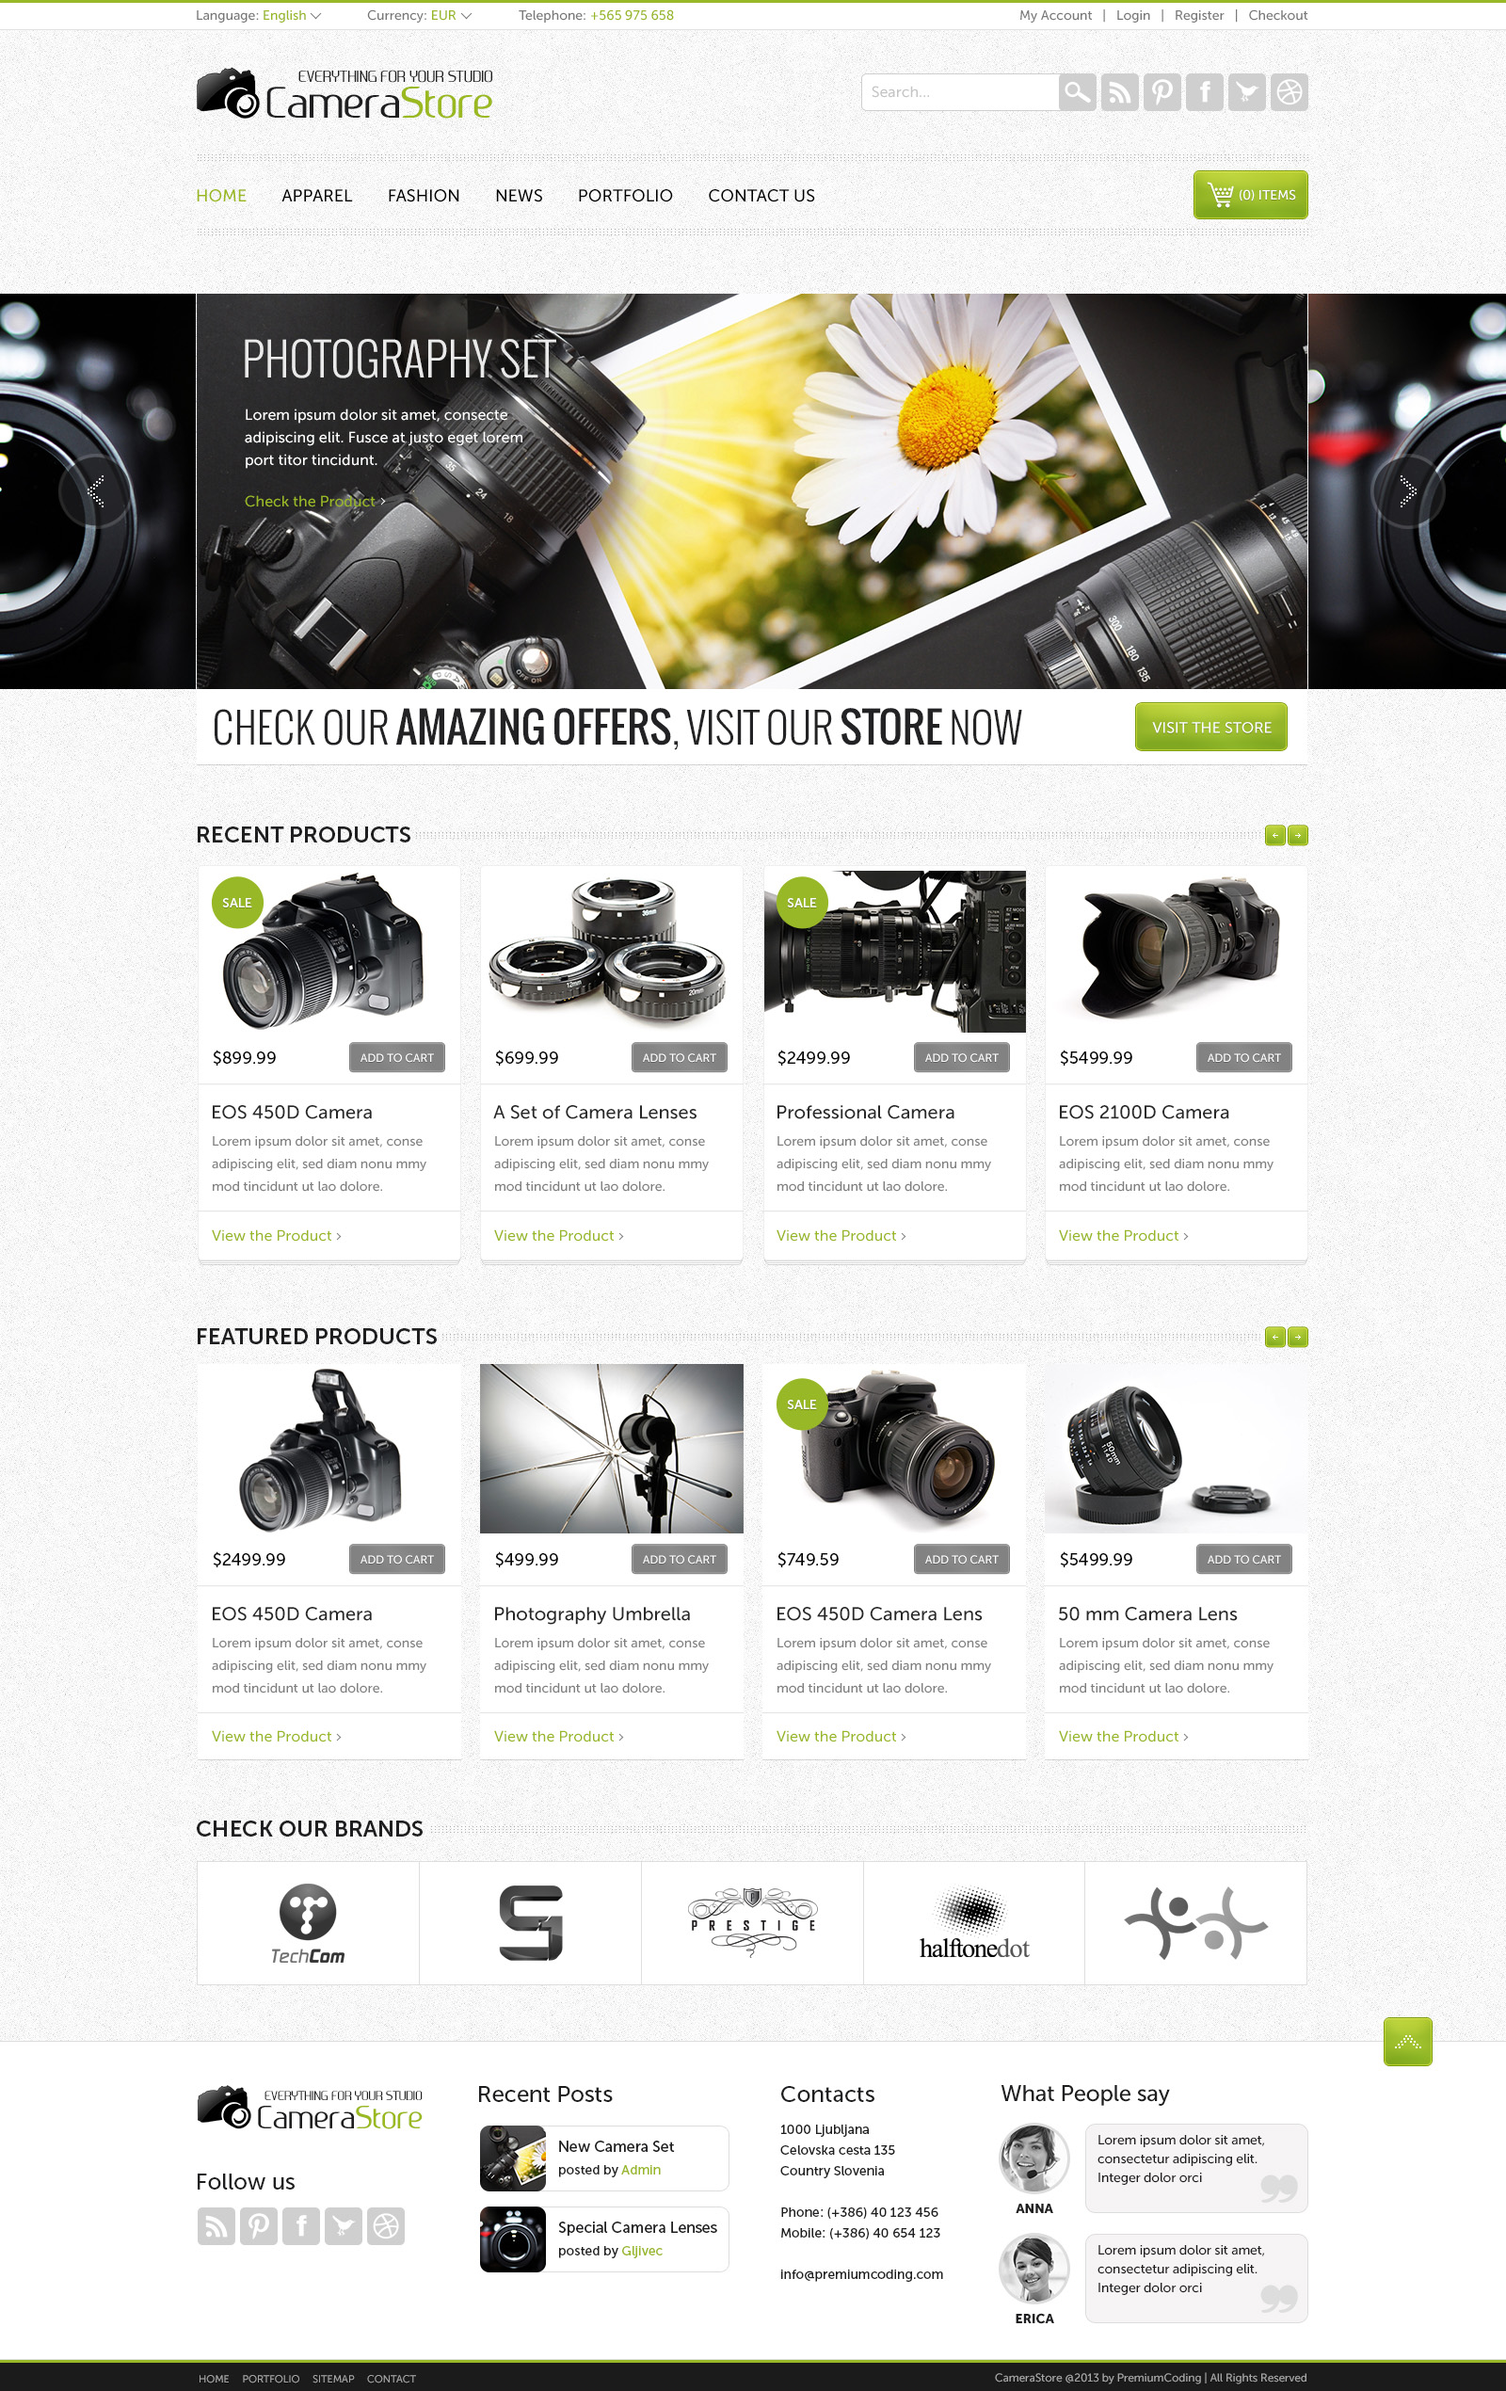
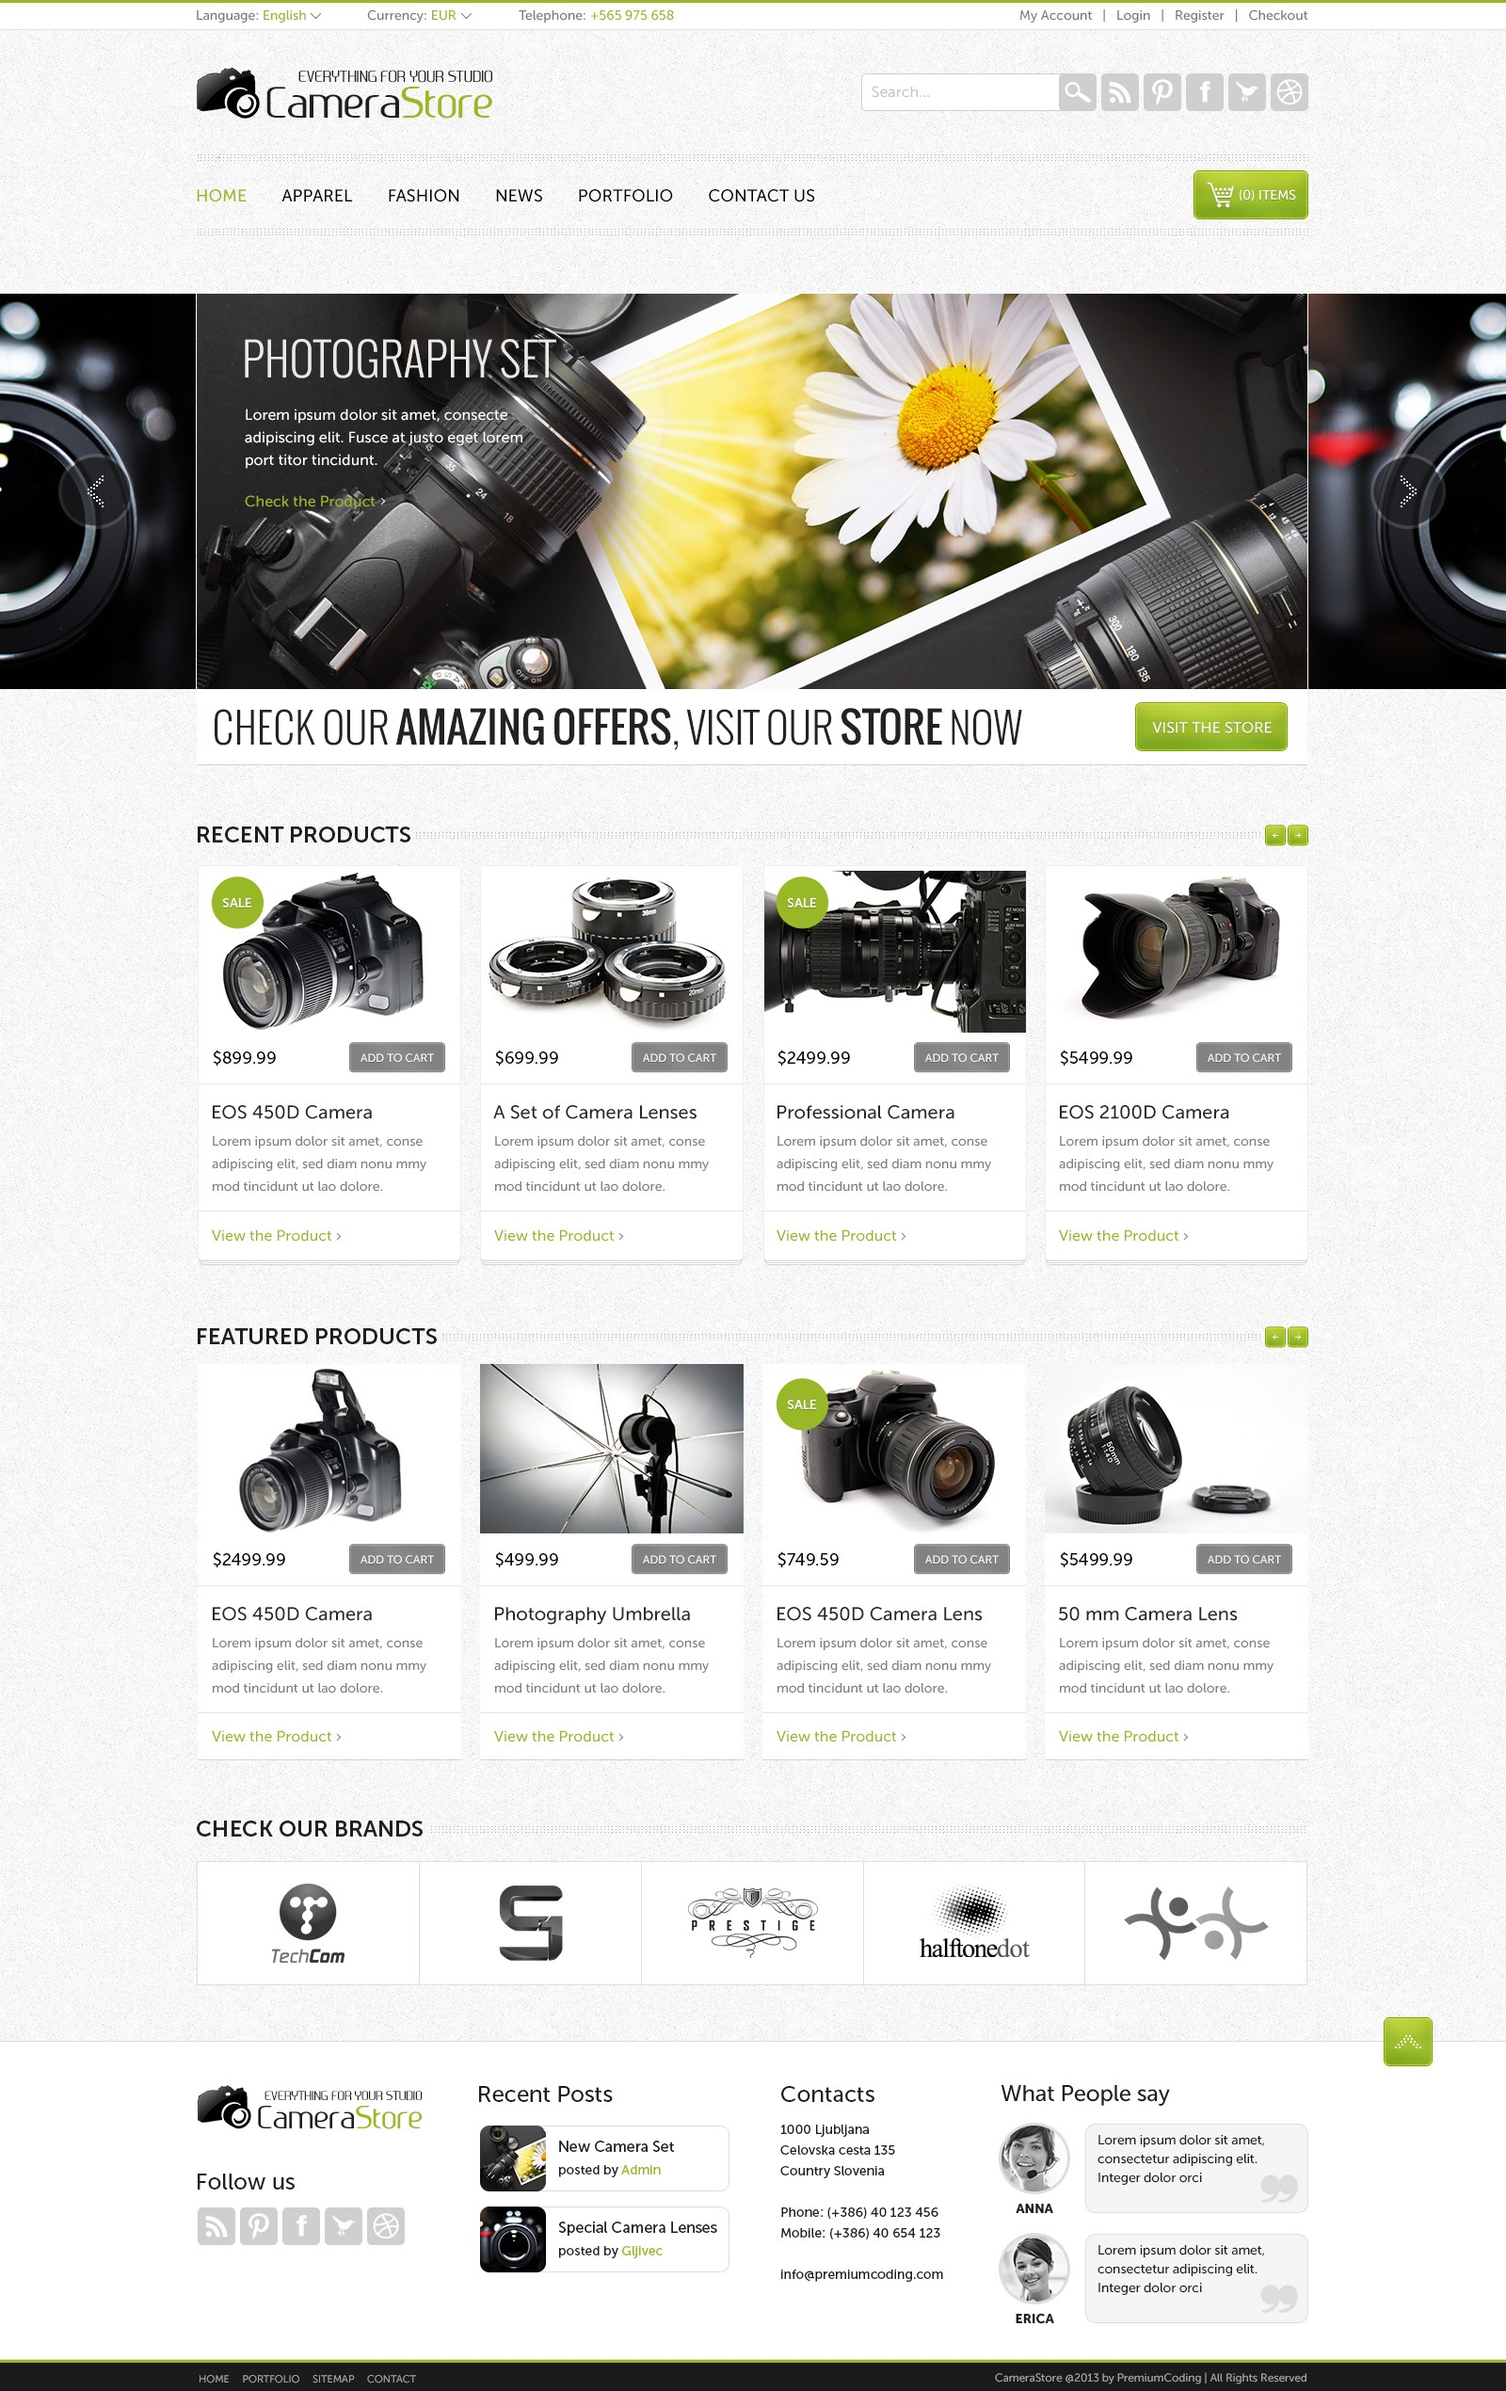
.top_bar & header done.

Changed region(s): [[0.8125, 0.0622, 0.8438, 0.0933]]

diff --git a/css/style.css b/css/style.css
@@ -1,8 +1,8 @@
 @charset "UTF-8";
-html{
-	font-family: sans-serif;
+html {
+    font-family: sans-serif;
 }
- body {
+body {
     background: url("../images/bg.png");
 }
 #top_bar {
@@ -13,6 +13,7 @@ html{
     border-top: 3px solid #99B92A;
     background: #fff;
     overflow: auto;
+    margin-bottom: 35px;
 }
 .wrap {
     margin: 0 auto;
@@ -42,7 +43,7 @@ html{
 
 header .logo {
     float: left;
-    margin: 35px 0;
+    margin-bottom: 35px;
 }
 .logo a {
     text-indent: -9999px;
@@ -52,57 +53,77 @@ header .logo {
     background: url("../images/logo.png") no-repeat;
 }
 .social {
-	margin: 35px 0;
+    margin: 35px 0;
     float: right;
-
 }
 .social input {
-	float: left;
-	width: 254px;
-	padding: 1px 10px;
+    float: left;
+    width: 254px;
+    padding: 1px 10px;
     border: 2px solid #CFCFCF;
     border-radius: 10px;
     height: 34px;
-    background:#FFF url("../images/icon01.png")no-repeat scroll bottom right;
+    background: #FFF url("../images/icon01.png")no-repeat scroll bottom right;
 }
-.social i{
-	line-height: 40px;
-	display: inline-block;
-	width:40px;
-	height: 40px;
+.social i {
+    line-height: 40px;
+    display: inline-block;
+    width: 40px;
+    height: 40px;
 }
-.rss{
-
-	background: url("../images/icon02.png")
+.rss {
+    background: url("../images/icon02.png")
 }
-.pinterest{
-	background: url("../images/icon03.png")
+.pinterest {
+    background: url("../images/icon03.png")
 }
-.facebook{
-	background: url("../images/icon04.png")
+.facebook {
+    background: url("../images/icon04.png")
 }
-.twitter{
-	background: url("../images/icon05.png")
+.twitter {
+    background: url("../images/icon05.png")
 }
-.dribble{
-	background: url("../images/icon06.png")
+.dribble {
+    background: url("../images/icon06.png")
 }
-header nav{
-	display: block;
-	clear: both;
-padding: 30px 0;
-	border-width:8px 0;
--webkit-border-image: url(../images/border.png) repeat 8;
-	-o-border-image: url(../images/border.png) repeat 8;
-	-border-image: url(../images/border.png) repeat 8;
-	overflow: auto;
+header nav {
+    display: block;
+    margin-bottom: 60px;
+    clear: both;
+    border-width: 8px 0;
+    -webkit-border-image: url(../images/border.png) repeat 8;
+    -o-border-image: url(../images/border.png) repeat 8;
+    -border-image: url(../images/border.png) repeat 8;
+    overflow: auto;
 }
-nav li{
-	margin-right:20px; 
-	display: inline-block;
+nav li {
+    padding: 30px 0;
+    float: left;
+    margin-right: 30px;
+    display: inline-block;
+}
+nav li:last-child {
+    padding: 0;
+    float: right;
+    margin: 0;
+    margin-top: 7px;
+}
+nav a {
+    font-weight: bold;
+    color: black;
+}
+nav button {
+    font-size: 15px;
+    color: #fff;
+    padding: 20px;
+    border-radius: 10px;
+    padding-left: 50px;
+    background: #bbd239 url("../images/shop_cart.png")no-repeat scroll 20px 10px;
 }
 /*slider*/
-
+.slider{
+	height: 421px;
+}
 .slider {}
 /*content*/
 /*footer*/

diff --git a/index.html b/index.html
@@ -30,10 +30,10 @@
             </div>
             <div class="right">
                 <ul>
-                    <li>My Account</li>
-                    <li>Login</li>
-                    <li>Register</li>
-                    <li>Checkout</li>
+                    <li><a href="#">My Account</a></li>
+                    <li><a href="#">Login</a></li>
+                    <li><a href="#">Register</a></li>
+                    <li><a href="#">Checkout</a></li>
                 </ul>
             </div>
 
@@ -46,13 +46,13 @@
         </div>
 
         <div class="social">
-            <input type="text" placeholder="Search..."><i></i>
+            <input type="text" placeholder="Search...">
 
-            <i class="rss"></i>
-            <i class="pinterest"></i>
-            <i class="facebook"></i>
-            <i class="twitter"></i>
-            <i class="dribble"></i>
+            <a href="#"><i class="rss"></i></a>
+           <a href="#"> <i class="pinterest"></i></a>
+           <a href="#"> <i class="facebook"></i></a>
+            <a href="#"><i class="twitter"></i></a>
+            <a href="#"><i class="dribble"></i></a>
         </div>
         <nav>
             <ul>
@@ -62,19 +62,21 @@
                 <li><a href="#">NEWS</a></li>
                 <li><a href="#">PORTFOLIO</a></li>
                 <li><a href="#">CONTACT US</a></li>
+                <li><button>(<span>0</span>)ITEMS</button></li>
             </ul>
+              
         </nav>
 
-        <button type=""></button>
+      
 
 
     </header>
 
     <div class="slider">
         <ul>
-            <li></li>
-            <li></li>
-            <li></li>
+            <li><img src="images/slider01.png" alt=""></li>
+            <li><img src="images/slider02.png" alt=""></li>
+            <li><img src="images/slider02.png" alt=""></li>
         </ul>
     </div>
     <div class="content">
